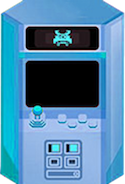
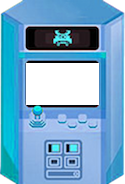
Added all mini previews + api

Changed region(s): [[0.192, 0.3261, 0.792, 0.5707]]

diff --git a/Menu.py b/Menu.py
@@ -33,15 +33,14 @@ class Menu(object):
 
     def handleEvents(self, events):
         for ev in events:
-            print(ev)
             if ev.type == pygame.KEYDOWN:
                 if ev.key == pygame.K_LEFT:
                     if self.gameSelectedIndex == 0:
-                        self.gameSelectedIndex = len(self.minigames)
+                        self.gameSelectedIndex = len(self.minigames) - 1
                     else:
                         self.gameSelectedIndex -= 1
                 elif ev.key == pygame.K_RIGHT:
-                    if self.gameSelectedIndex == len(self.minigames):
+                    if self.gameSelectedIndex == len(self.minigames) - 1:
                         self.gameSelectedIndex = 0
                     else:
                         self.gameSelectedIndex += 1
@@ -72,18 +71,27 @@ class Menu(object):
 
         # Render arcade machines
         for i in range(0, 6):
+            # Draw small preview
+            previewSurface = surface.subsurface((40 + 129 * i, 410,
+                                Menu.IMAGE_ARCADE_MACHINE_WIDTH - 86,
+                                Menu.IMAGE_ARCADE_MACHINE_HEIGHT - 202))
+            self.minigames[i].drawMiniPreview(previewSurface)
+
             s = surface.subsurface((124 * i, 350, 
             Menu.IMAGE_ARCADE_MACHINE_WIDTH, 
             Menu.IMAGE_ARCADE_MACHINE_HEIGHT))
             #pygame.transform.scale(s, (100, 250), s)
             s.blit(self.minigameArcadeMachineImages[i], (15 + 5 * i, 0))
+
+            # Is Hovered game?
             if self.gameSelectedIndex == i:
                 s.blit(self.minigameArcadeMachineGlowImage, (-15 + (5 * i), -30))
                 s = surface.subsurface((124 * i, 250,
                     Menu.IMAGE_ARCADE_MACHINE_WIDTH,
                     Menu.IMAGE_ARCADE_MACHINE_HEIGHT))
-                print(self.arrowAnimationCurrent)
                 s.blit(self.minigameArcadeMachineActiveArrow, (50 + 5 * i, self.arrowAnimationCurrent))
+
+
         # Footer Text
         text = self.footerFont.render("Made by Dennis, Jasper, Gavin, Ties and Vincent", True, self.footerColor)
         surface.blit(text, (10, surface.get_height() - 30))

diff --git a/Minigames/Quinten/Game.py b/Minigames/Quinten/Game.py
@@ -1,12 +1,9 @@
-import pygame
+from Minigame import Minigame
 
-class Minigame(object):
-    name=""
-    author=""
-    def __init__(self, name, author):
-        self.name = name
-        self.author = author
-
+class QuintenGame(Minigame):
+    def __init__(self):
+        super(QuintenGame, self).__init__("QuintenGame", "Quinten")
+    
     # When a player starts this minigame
     def enter(self):
         raise NotImplementedError("You need to override the enter method on your minigame.")
@@ -26,15 +23,9 @@ class Minigame(object):
     def updatePreview(self, dt):
         raise NotImplementedError("You need to override the updatePreview method on your minigame.")
 
-    def updateMiniPreview(self, dt):
-        pass
-
     # Draw the current game state
     def draw(self, surface):
         raise NotImplementedError("You need to override the draw method on your minigame.")
 
     def drawPreview(self, surface):
         raise NotImplementedError("You need to override the drawPreview method on your minigame.")
-
-    def drawMiniPreview(self, surface):
-        pygame.draw.rect(surface, (0, 0, 255), (0, 0, surface.get_width(), surface.get_height()))

diff --git a/main.py b/main.py
@@ -6,6 +6,7 @@ from Minigames.Gavin.Game import GavinGame
 from Minigames.Jasper.Game import JasperGame
 from Minigames.Ties.Game import TiesGame
 from Minigames.Vincent.Game import VincentGame
+from Minigames.Quinten.Game import QuintenGame
 
 class Game(object):
     def __init__(self):
@@ -22,7 +23,8 @@ class Game(object):
             GavinGame(),
             JasperGame(),
             TiesGame(),
-            VincentGame()
+            VincentGame(),
+            QuintenGame()
         ]
         self.menu = Menu(self.minigames)
 
